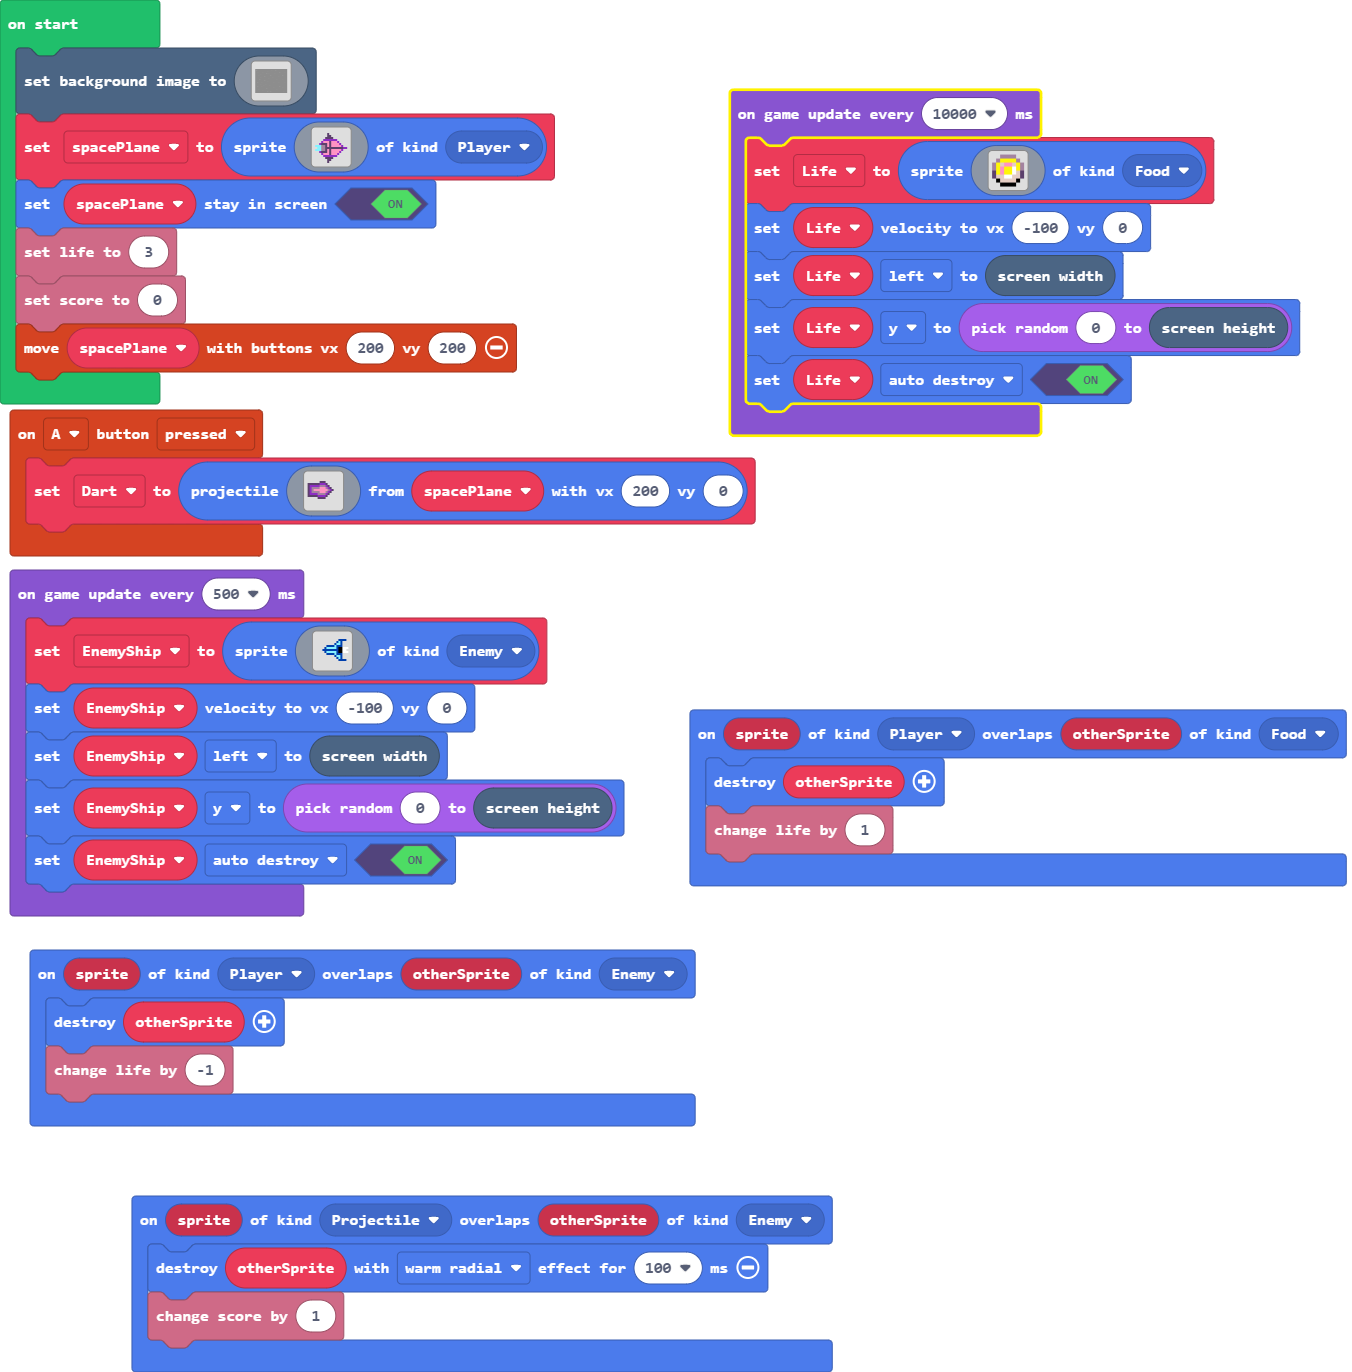
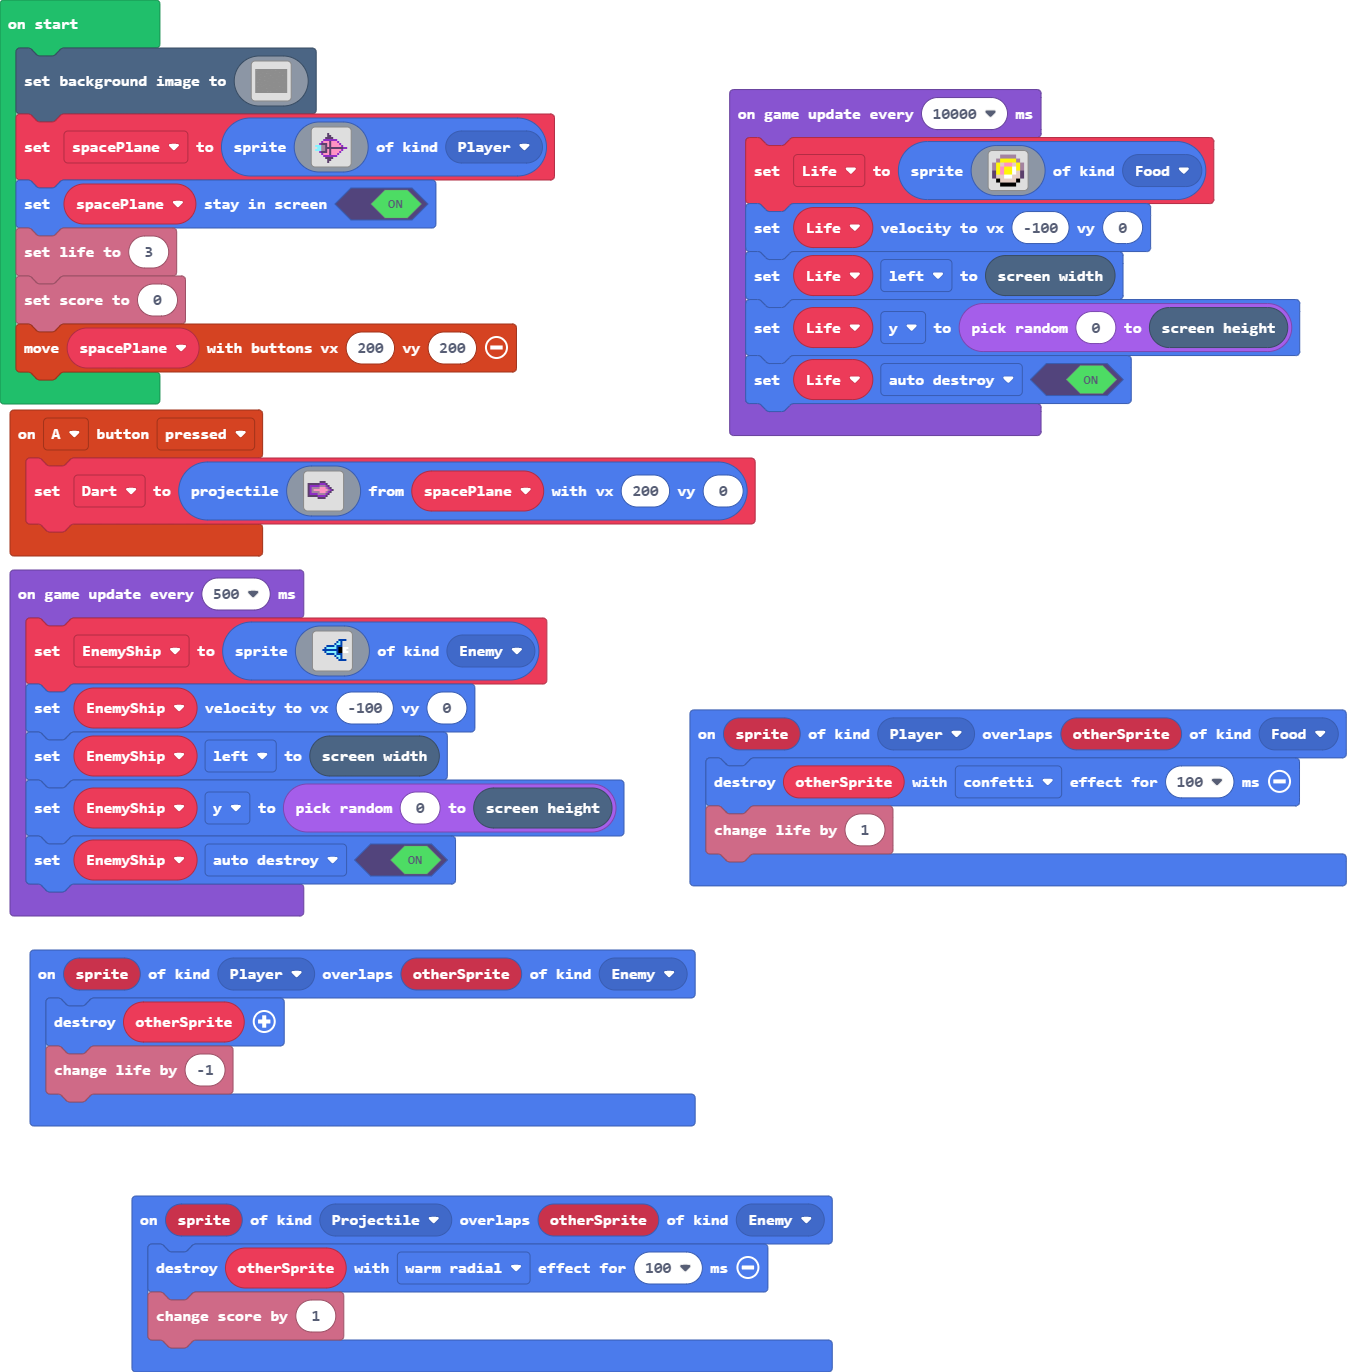
Life effect update.

Changed region(s): [[0.6834, 0.551, 0.963, 0.6122], [0.5281, 0.0612, 0.5592, 0.3061], [0.7456, 0.0612, 0.7766, 0.0918]]

diff --git a/main.ts b/main.ts
@@ -19,7 +19,7 @@ controller.A.onEvent(ControllerButtonEvent.Pressed, function () {
         `, spacePlane, 200, 0)
 })
 sprites.onOverlap(SpriteKind.Player, SpriteKind.Food, function (sprite, otherSprite) {
-    otherSprite.destroy()
+    otherSprite.destroy(effects.confetti, 100)
     info.changeLifeBy(1)
 })
 sprites.onOverlap(SpriteKind.Projectile, SpriteKind.Enemy, function (sprite, otherSprite) {
